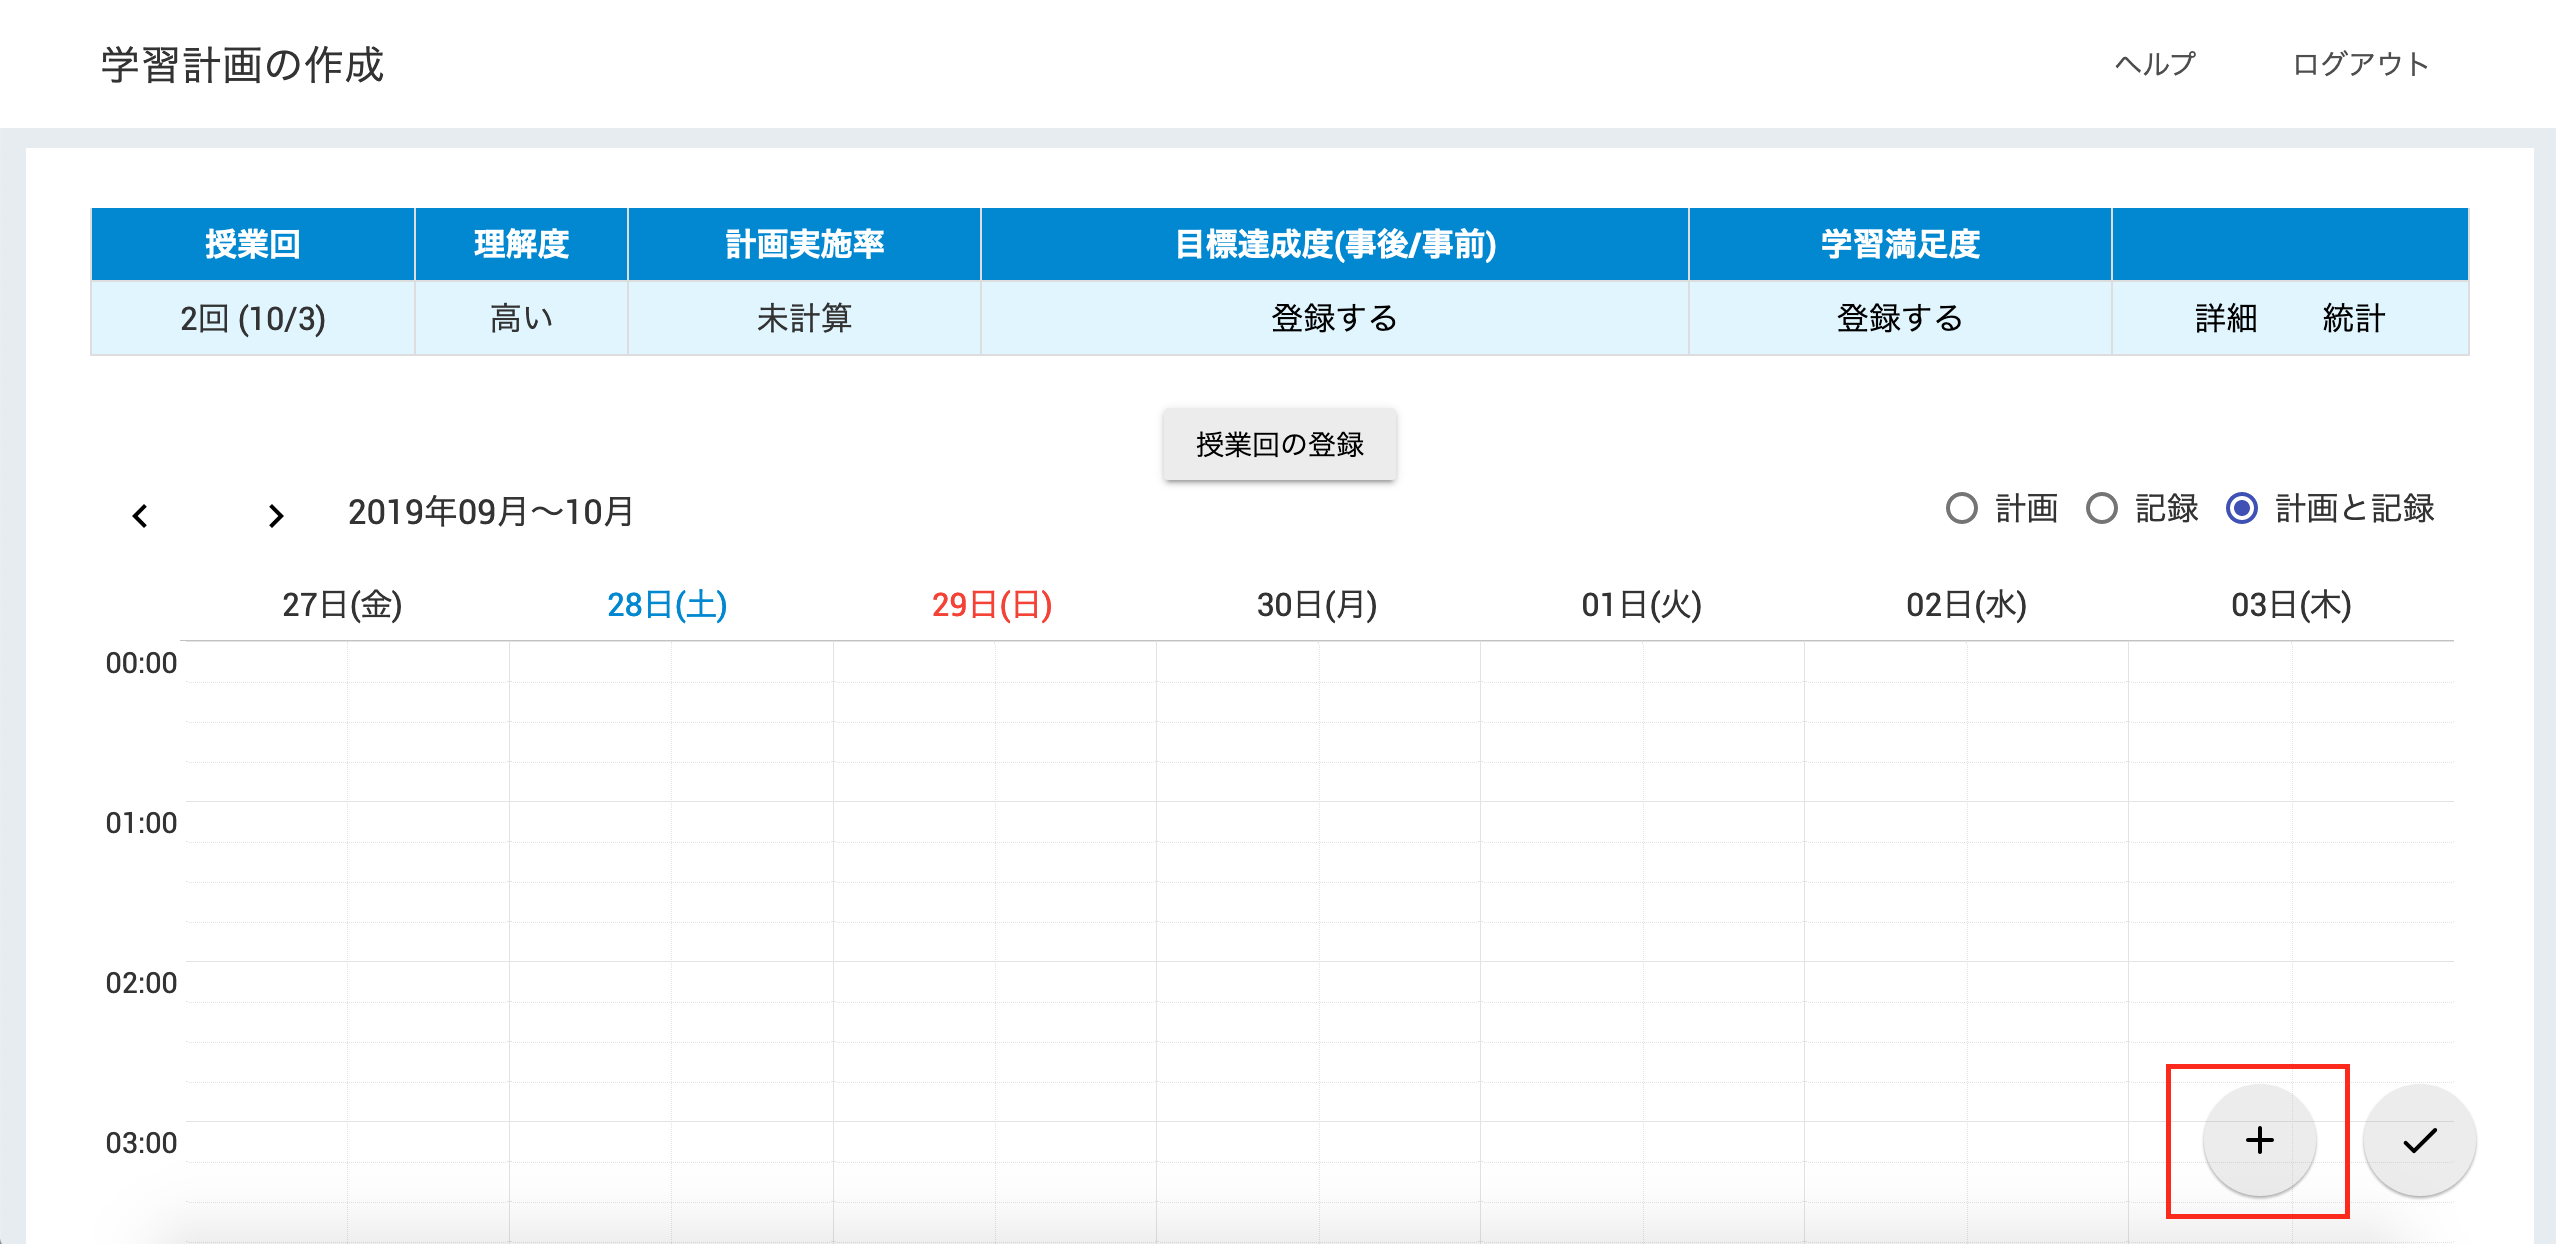
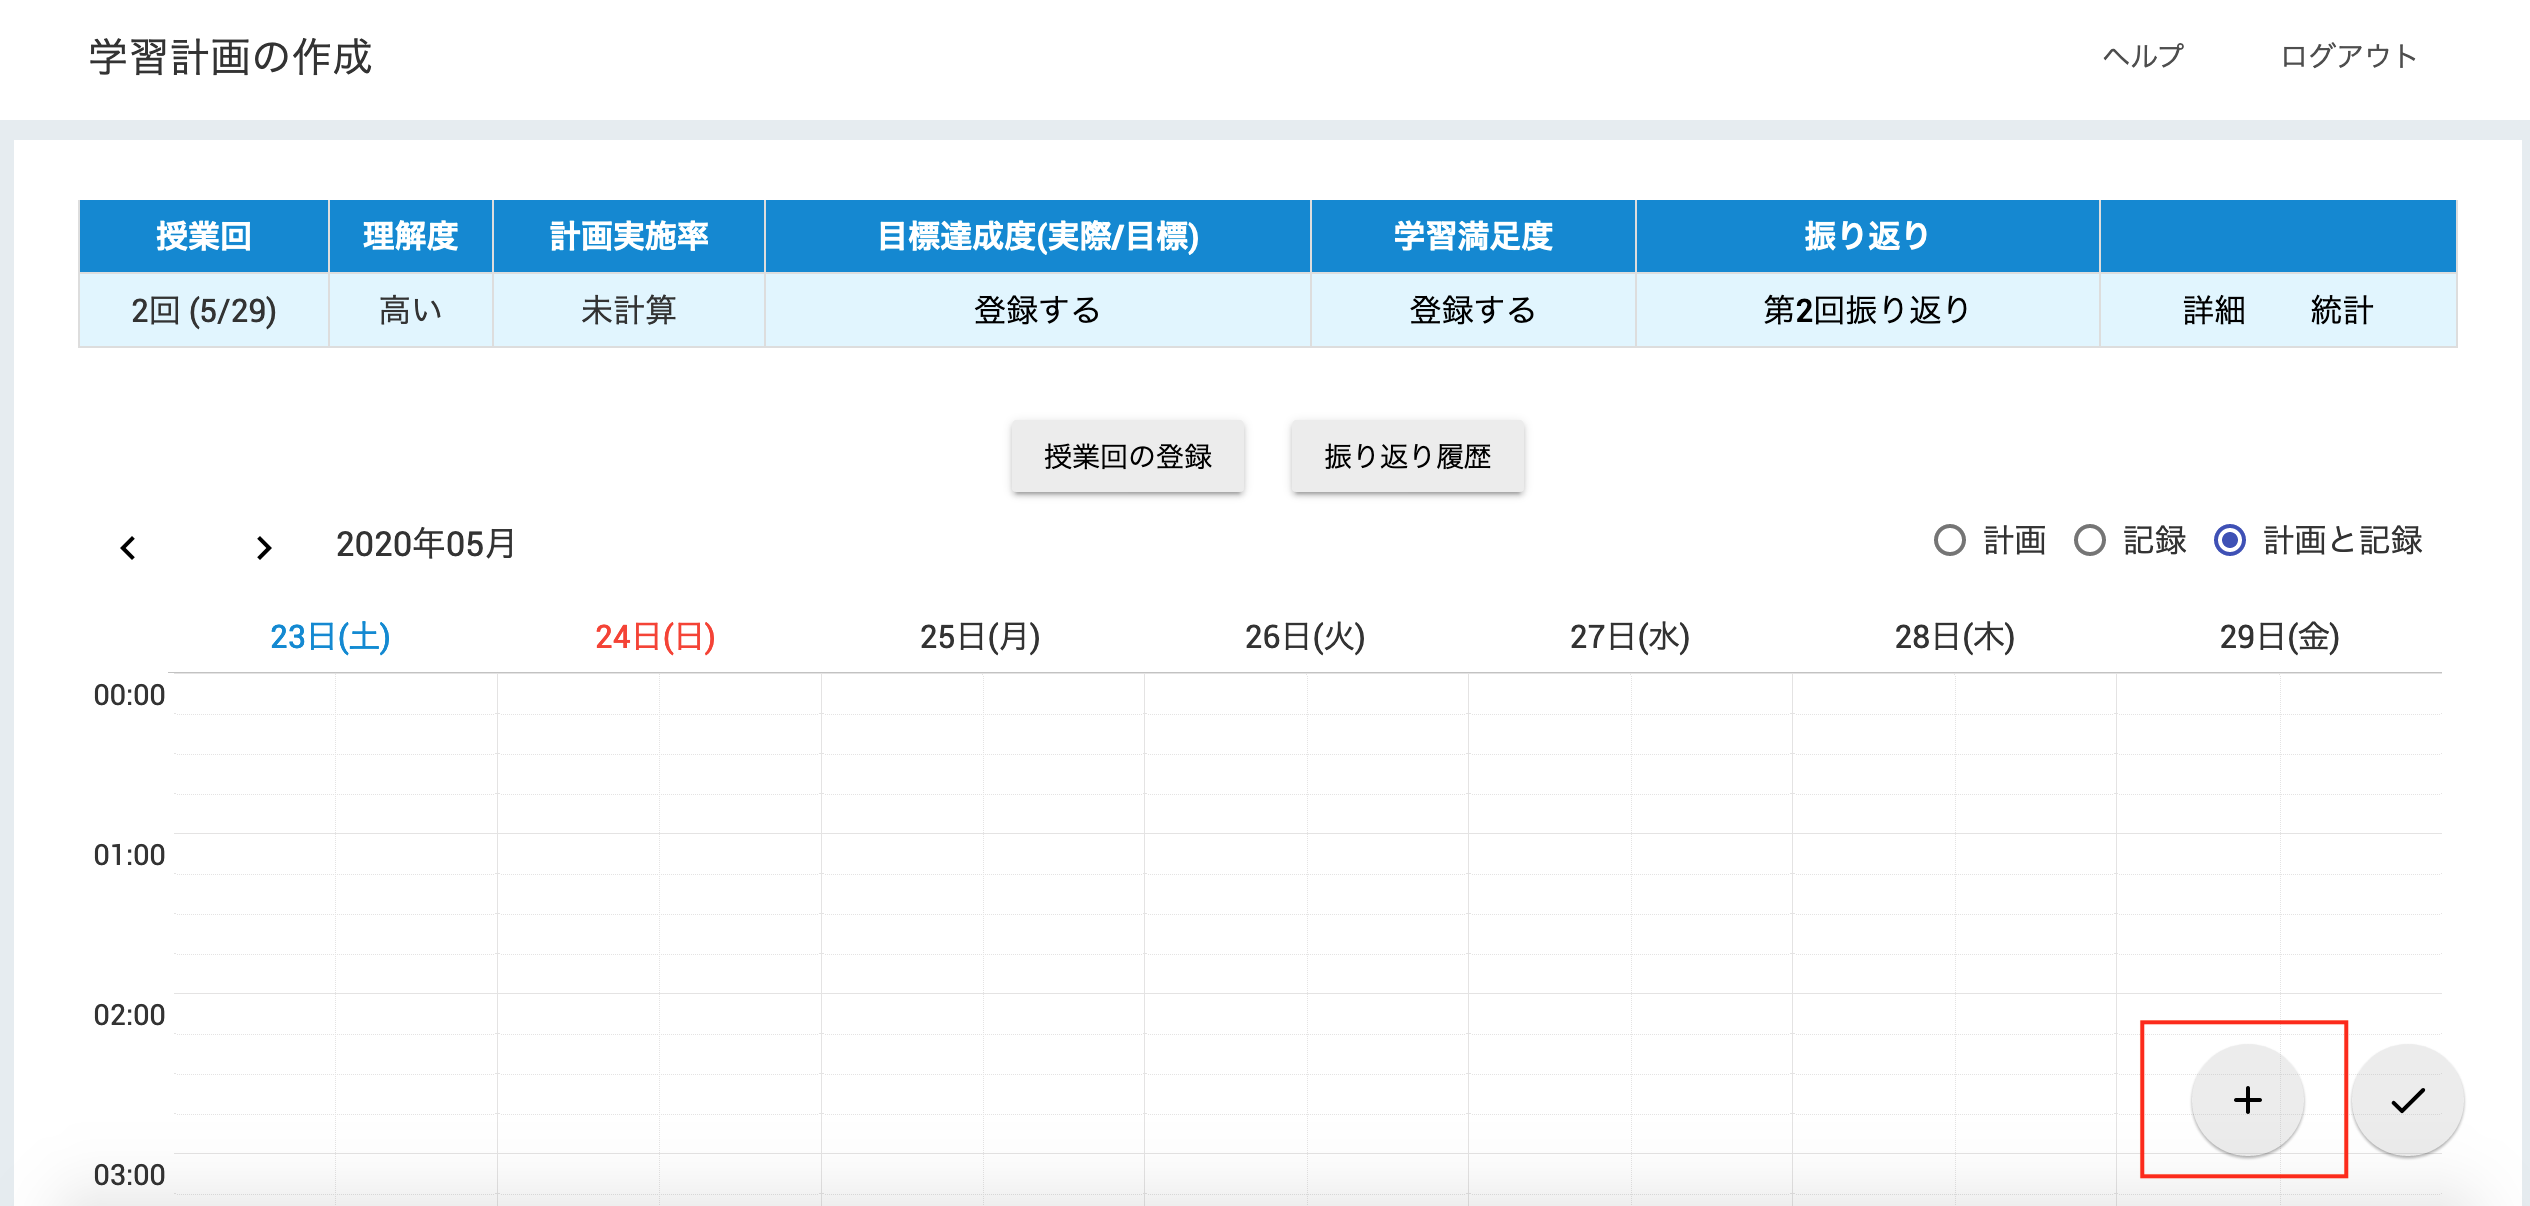
ヘルプページの更新

diff --git a/view/help.html b/view/help.html
@@ -17,7 +17,8 @@
                     <li><a href="#section2">学習計画の追加</a></li>
                     <li><a href="#section3">学習記録の追加</a></li>
                     <li><a href="#section4">テストの点数や学習満足度の登録</a></li>
-                    <li><a href="#section5">その他(学習計画の修正、学習記録の修正、過去の学習計画や学習記録の参照)</a></li>
+                    <li><a href="#section5">学習の振り返り(チャットボット)</a></li>
+                    <li><a href="#section6">その他(学習計画の修正、学習記録の修正、過去の学習計画や学習記録の参照)</a></li>
                 </ol>
             </div>
             <section id="section1" class="help-item">
@@ -25,7 +26,7 @@
                 <ol>
                     <li>「授業回の登録」ボタンを選択します。</li>
                     <img src="./../image/1-1.png" width="500" height="" alt="「授業回の登録」ボタンを選択します。">
-                    <li>予習する授業範囲、選択した授業日、授業範囲に対する理解度、事前テストの目標点数をそれぞれ選択します。</li>
+                    <li>予習する授業範囲、授業範囲に対する理解度、確認テストの目標点数をそれぞれ選択します。</li>
                     <li>選択を終えたら「登録」ボタンを選択します。</li>
                 </ol>
             </section>
@@ -54,26 +55,35 @@
                 </ol>
             </section>
             <section id="section4" class="help-item">
-                <h1>4. 事前テストの点数や学習満足度の登録</h1>
+                <h1>4. 確認テストの点数や学習満足度の登録</h1>
                 <ol>
                     <li>画面上にあるテーブルから該当する授業回の「詳細」ボタンを選択します。または，テーブルの各項目にある「登録する」ボタンを選択します。</li>
                     <img src="./../image/4-1.png" width="500" height="" alt="画面上にあるテーブルから該当する授業回の「詳細」ボタンを選択します。または，テーブルの各項目にある「登録する」ボタンを選択します。">
-                    <li>「事前テストの点数」や「今回の学習の満足度」を選択します。</li>
-                    <img src="./../image/4-2.png" width="500" height="" alt="「事前テストの点数」や「今回の学習の満足度」を選択します。">
+                    <li>「確認テストの点数」や「今回の学習の満足度」を選択します。</li>
+                    <img src="./../image/4-2.png" width="500" height="" alt="「確認テストの点数」や「今回の学習の満足度」を選択します。">
                     <li>選択を終えたら「編集」ボタンを選択します。</li>
                     <li>選択した内容がテーブルに反映されます。</li>
                 </ol>
             </section>
             <section id="section5" class="help-item">
-                <h1>5. その他</h1>
+                <h1>5. 学習の振り返り(チャットボット)</h1>
+                <ol>
+                    <li>画面上にあるテーブルから該当する授業回の「振り返り」ボタンを選択します。</li>
+                    <img src="./../image/5-1.png" width="500" height="" alt="画面上にあるテーブルから該当する授業回の「振り返り」ボタンを選択します。">
+                    <li>過去の振り返りの履歴を見る場合は「振り返り履歴」ボタンを選択します。</li>
+                    <img src="./../image/5-2.png" width="500" height="" alt="過去の振り返りの履歴を見る場合は「振り返り履歴」ボタンを選択します。">
+                </ol>
+            </section>
+            <section id="section6" class="help-item">
+                <h1>6. その他</h1>
                 <ul>
                     <li>学習計画の修正</li>
                     <ol>
                         <li>カレンダーに表示されている学習計画を選択します。</li>
-                        <img src="./../image/5-1-1.png" width="500" height="" alt="カレンダーに表示されている学習計画を選択します。">
+                        <img src="./../image/6-1-1.png" width="500" height="" alt="カレンダーに表示されている学習計画を選択します。">
                         <li>「学習計画の詳細」画面が表示されるので、該当する箇所を修正します。</li>
                         <li>修正を終えたら「編集」ボタンを選択します。</li>
-                        <img src="./../image/5-1-3.png" width="500" height="" alt="修正を終えたら「編集」ボタンを選択します。">
+                        <img src="./../image/6-1-3.png" width="500" height="" alt="修正を終えたら「編集」ボタンを選択します。">
                     </ol>
                     <li>学習記録の修正</li>
                     <ol>
@@ -88,7 +98,7 @@
                     </ol>
                 </ul>
             </section>
-            <p>その他，質問などがありましたら g031o008@s.iwate-pu.ac.jp までご連絡ください。</p>
+            <p>その他，質問などがありましたら g231s002@s.iwate-pu.ac.jp までご連絡ください。</p>
         </div>
     </main>
 </div>
